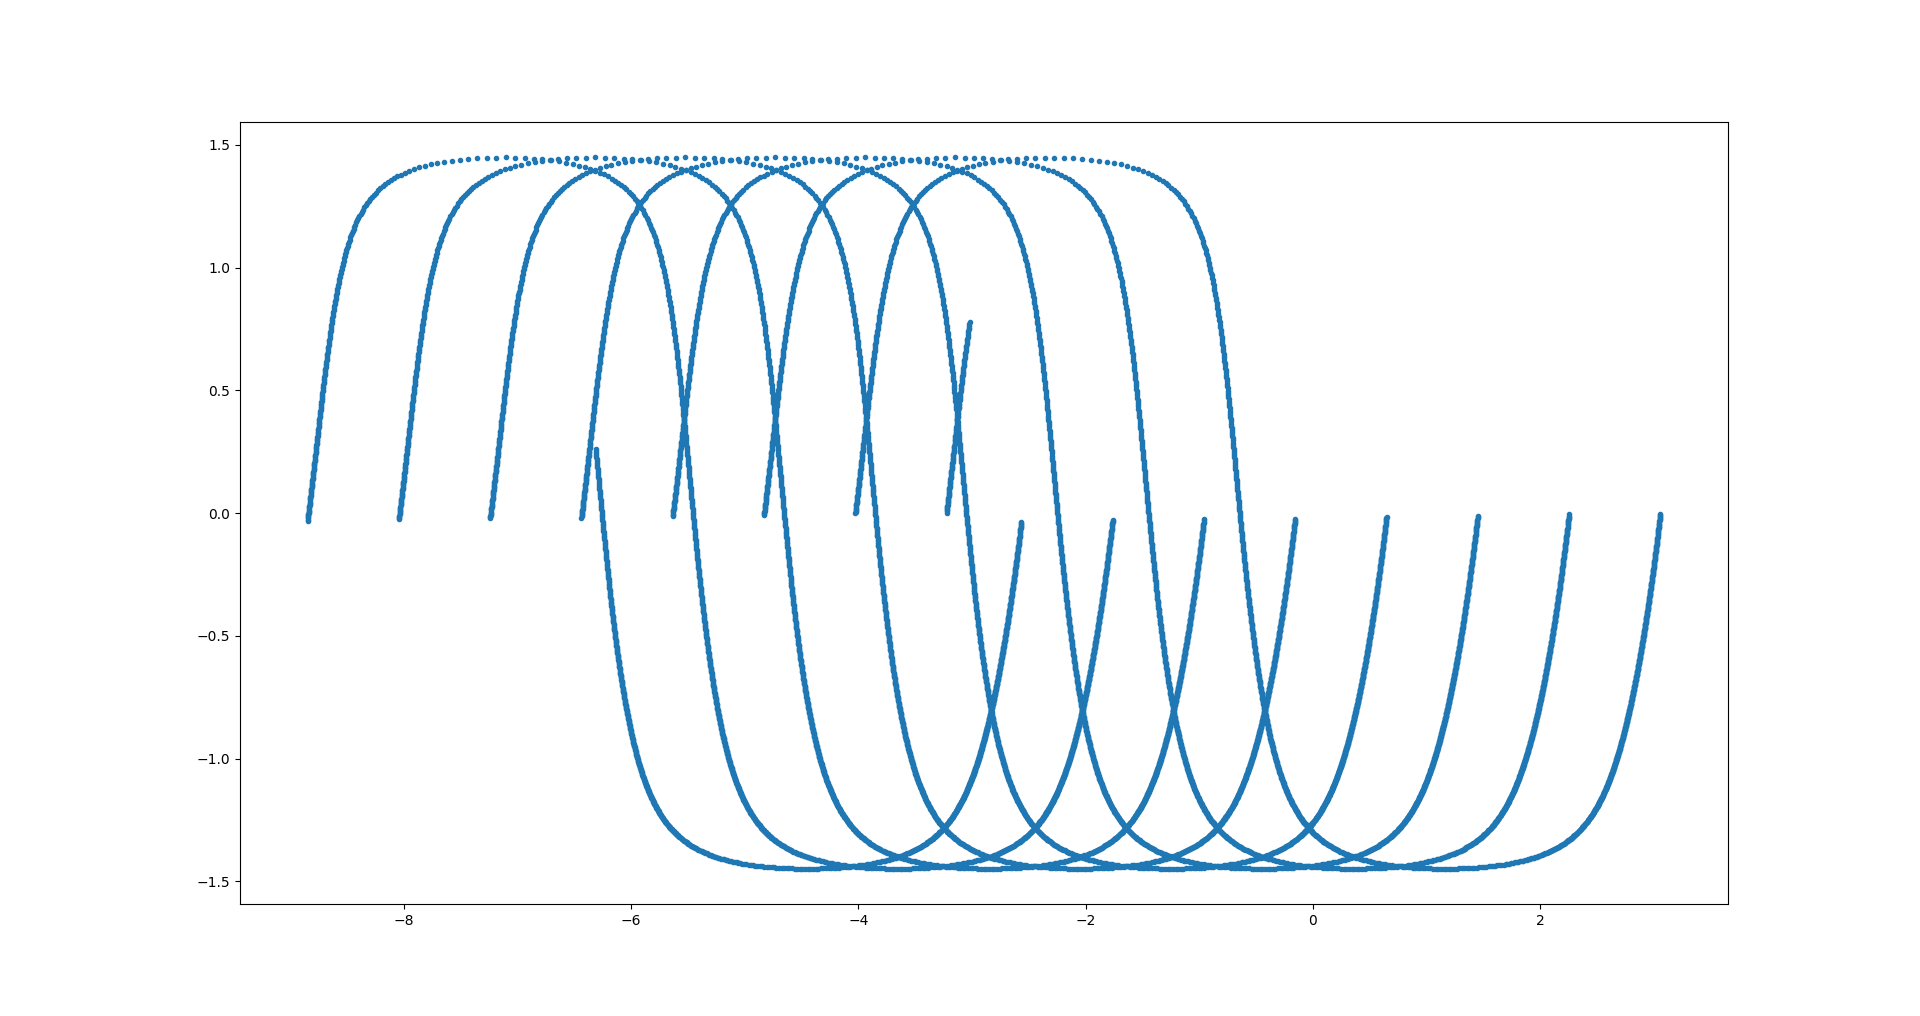
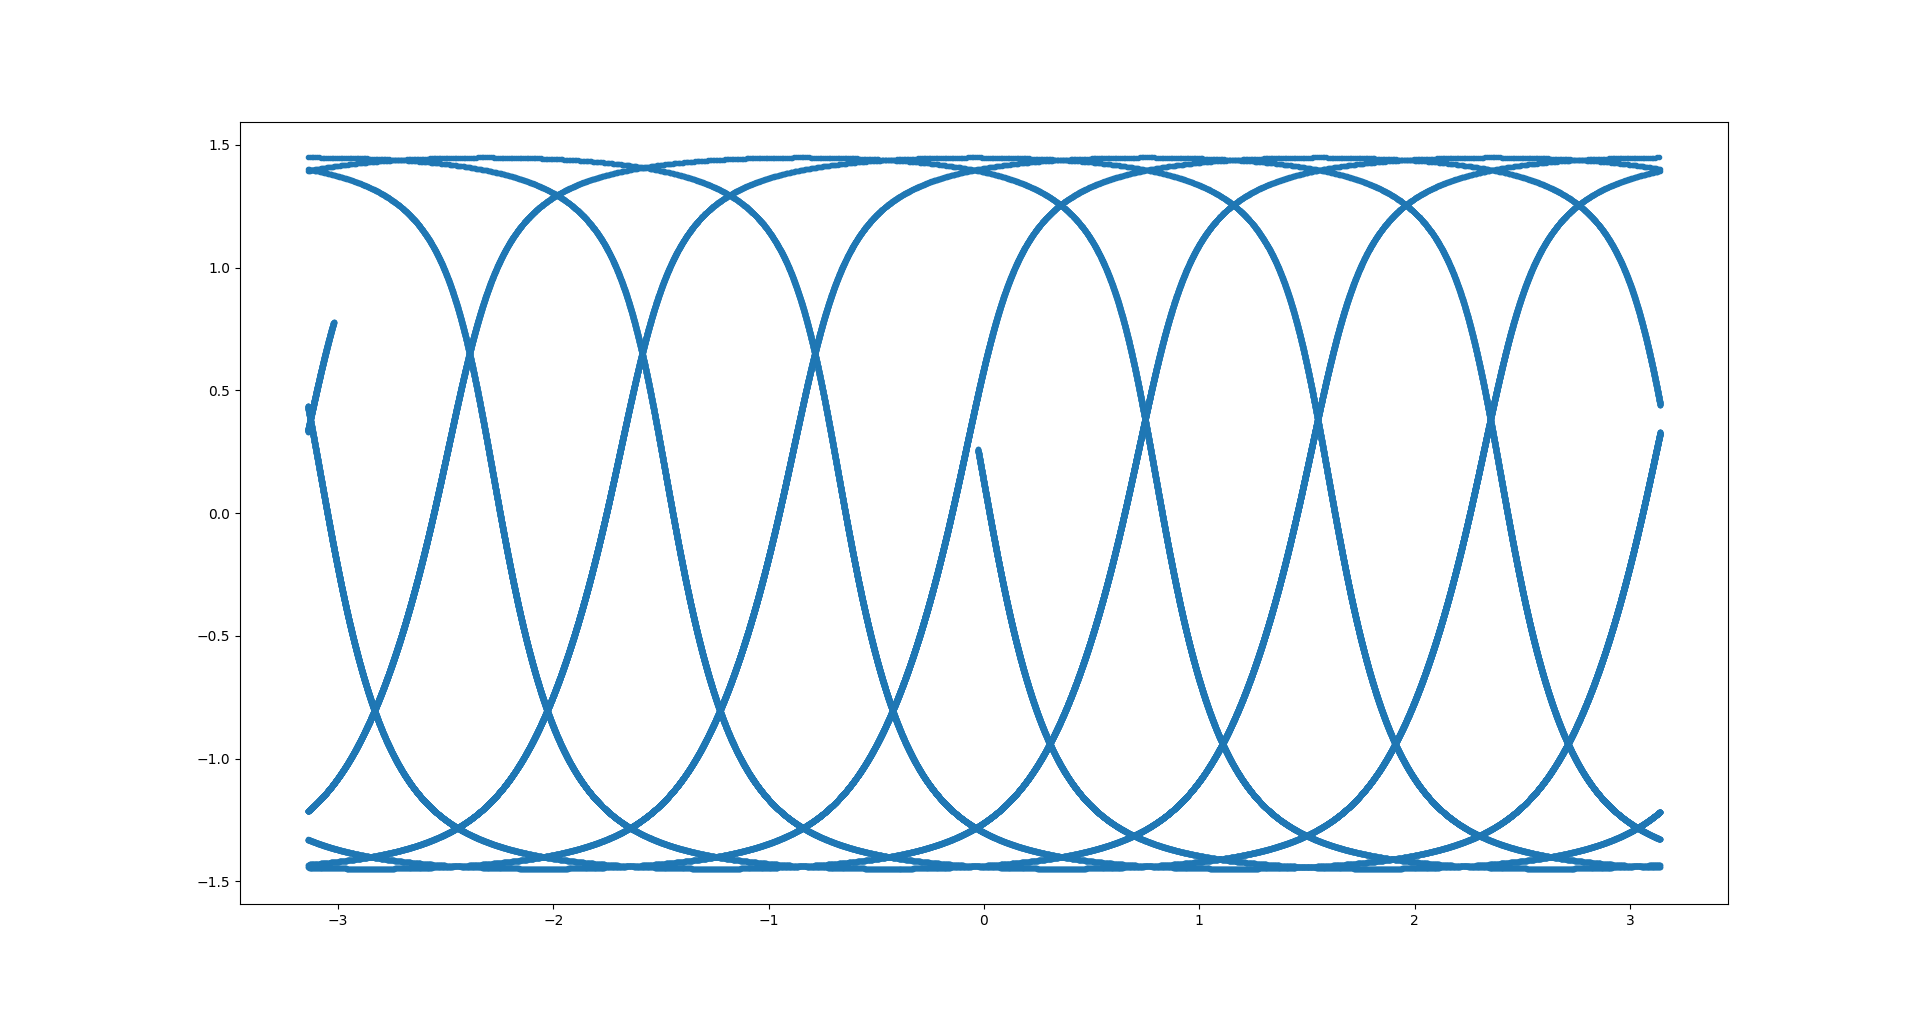
Debug of Track plotting and new Track pic

Changed region(s): [[0.1562, 0.1526, 0.875, 0.8848], [0.8438, 0.2746, 0.875, 0.3967], [0.1562, 0.2136, 0.1875, 0.3051]]

diff --git a/code/main.py b/code/main.py
@@ -10,7 +10,7 @@ if __name__ == "__main__":
 
     T = 2 * np.pi * st.r / np.sqrt(st.mu / st.r)
 
-    st.setTimeLimits(0., 24 * 60**2, 10000)
+    st.setTimeLimits(0., 24 * 60**2, 100000)
     st.setStartVelocity(np.sqrt(st.mu / st.r))
     st.setRotMatrixAngles(np.pi / 180 * 97, 0, np.pi / 6)
     # st.setRotMatrixAngles(0, 0, 0)
@@ -32,6 +32,11 @@ if __name__ == "__main__":
     omega = 2 * np.pi / 24 / 60 / 60
     L = np.arctan2(x[1, :], x[0, :]) - omega * t
     B = np.arcsin(x[2, :] / n)
+    
+    for i in range(len(L)):
+
+        if L[i] < -np.pi:
+            L[i] += 2 * np.pi 
 
     plt.scatter(L, B, marker='.')
     plt.show()
